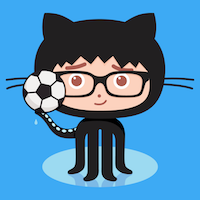
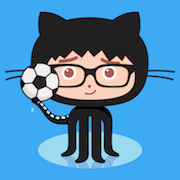
修改css

diff --git a/assets/css/main.css b/assets/css/main.css
@@ -729,7 +729,7 @@ footer {
       height: 180px;
       width: 180px;
       border-radius: 50%;
-      background: url(../img/android.JPG);
+      background: url(../img/homeAvatarHover.png);
       margin: auto; }
     .about-lock .flip-container {
       -webkit-perspective: 1000;
@@ -1280,19 +1280,17 @@ form {
     justify-content: space-between;
     -ms-flex-pack: justify;
     padding-left: 10px; }
-  .title:hover {
-    padding-left: 10px; }
   .post-title {
     font-size: 25px;
     letter-spacing: -1px;
     line-height: 1;
-    padding-left: 10px; }
-    .post-title:hover {
-      padding-left: 10px; }
+    margin-left:auto;
+    margin-right:auto; }
   .post-meta {
     margin-bottom: 0px;
     padding-bottom: 20px;
-    padding-left: 10px; }
+    margin-left:auto;
+    margin-right:auto; }
   .post-link {
     display: block;
     font-size: 40px; }
@@ -1342,14 +1340,14 @@ form {
 
 @media only screen and (min-width: 1070px) {
   .post-header {
-    max-width: 750px;
+    max-width: 1000px;
     margin: 0 auto; }
   .title:hover {
-    max-width: 750px; }
+    max-width: 1000px; }
   .post-wrapper {
-    max-width: 780px; }
+    max-width: 1000px; }
   .comment {
-    max-width: 780px; }
+    max-width: 1000px; }
   .blurb-blog {
     font-size: 15px;
     font-weight: 30; }

diff --git a/_includes/footer_small.html b/_includes/footer_small.html
@@ -2,7 +2,7 @@
     <div class="lockup">
         <div class="logo"></div>
         <div class="content-wrap">
-            <nav><a href="/#about-me">About Me</a><a href="/#Experenice">Experience</a><a href="/#Blog">Blog</a><a href="/#Details">Contact Me</a></nav>
+            <nav><a href="/#about-me">About</a><a href="/#Experenice">Experience</a><a href="/#Blog">Blog</a><a href="/#Details">Contact</a></nav>
             <p class="copyright">John Smith 2015</p>
         </div>
     </div>

diff --git a/_includes/header.html b/_includes/header.html
@@ -3,7 +3,7 @@
 <div id="container1" class="arrow"></div>
 <div id="container" class="logo"></div>
 <header id="home">
-    <nav><a href="#about-me">About Me</a><a href="#Experenice">Experience</a><a href="/posts">Blog</a><a href="#Details">Contact Me</a></nav>
+    <nav><a href="#about-me">About</a><a href="#Experenice">Experience</a><a href="/posts">Blog</a><a href="#Details">Contact</a></nav>
     <h1>
     	<span class="intro-text" style="text-color:white">{{ content }}</span>
 	</h1>

diff --git a/_includes/history.html b/_includes/history.html
@@ -8,7 +8,7 @@
             <div class="cd-timeline-img cd-movie"><img src="../assets/img/idea14.svg" alt="College" /></div>
             <!-- cd-timeline-img-->
             <div class="cd-timeline-content">
-                <h2>Engineer at sui.me</h2>
+                <h2>Engineer at <a href="http://www.sui.me">Suime</a></h2>
                 <span class="cd-date">Oct 2015</span></div>
             <!-- cd-timeline-content-->
             <!-- cd-timeline-block-->

diff --git a/_includes/footer.html b/_includes/footer.html
@@ -1,7 +1,7 @@
 <footer>
     <div class="lockup">
         <div class="content-wrap">
-            <nav><a href="#about-me">About Me</a><a href="#Experenice">Experience</a><a href="/posts">Blog</a><a href="#Details">Contact Me</a></nav>
+            <nav><a href="#about-me">About</a><a href="#Experenice">Experience</a><a href="/posts">Blog</a><a href="#Details">Contact</a></nav>
             <p class="copyright">Qiu Feng 2016</p>
         </div>
     </div>

diff --git a/_includes/header_small.html b/_includes/header_small.html
@@ -1,5 +1,5 @@
 <a href="#" class="back-to-top">Back To Top</a>
 <div id="container" class="logo"></div>
 <header id="h_small">
-    <nav id="nav_small"><a href="/#about-me">About Me</a><a href="/#Experenice">Experience</a><a href="/posts">Blog</a><a href="/#Details">Contact Me</a></nav>
+    <nav id="nav_small"><a href="/#about-me">About</a><a href="/#Experenice">Experience</a><a href="/posts">Blog</a><a href="/#Details">Contact</a></nav>
 </header>

diff --git a/_includes/about.html b/_includes/about.html
@@ -21,7 +21,7 @@
     </div>
     <div class="blurb">
         <p>My name is Qiu Feng, a developer from Tongji University, in Shanghai. As a fan of Apple, I have been studying iOS since 2012. Now I am a full time developer for iOS Application who loves coding.</p>
-        <p>Except iOS, I also enjoy tvOS & OS X.</p>
+        <p>Except iOS, I also enjoy tvOS & macOS.</p>
     </div>
     <div class="skill-lock"></div>
 </section>
